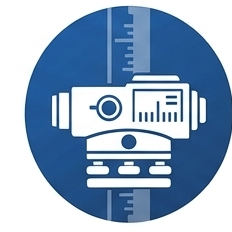
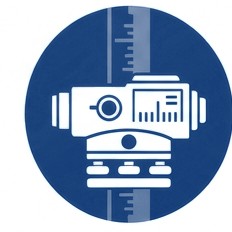
Izgled: teget/tamnoplava paleta umjesto svijetlo plave; prebojene ikone i logotipi

diff --git a/index.html b/index.html
@@ -10,10 +10,10 @@
 <link rel="shortcut icon" href="ikone/favicon.ico" />
 <link rel="apple-touch-icon" href="ikone/apple-touch-icon.png" />
 <link rel="manifest" href="manifest.json" />
-<meta name="theme-color" content="#1e5aa8" />
+<meta name="theme-color" content="#17407a" />
 <style>
   :root{
-    --plava:#1e5aa8; --plava-tamna:#17407a; --plava-svijetla:#2f6fc4;
+    --plava:#17407a; --plava-tamna:#0f2a52; --plava-svijetla:#1b4d92;
     --zelena:#1f9d55; --siva:#64748b; --svijetla:#f1f5f9;
     --obrub:#d7dee8; --tekst:#1e293b;
   }
@@ -104,7 +104,7 @@ M270 470 L250 600 M270 470 L430 560 M250 600 L420 650 M430 560 L420 650 M430 560
     box-shadow:0 4px 16px rgba(30,64,122,.08);
     transition:transform .16s,box-shadow .16s,border-color .16s;
   }
-  .kartica-mreze:hover{transform:translateY(-5px);box-shadow:0 14px 30px rgba(30,90,168,.20);border-color:var(--plava)}
+  .kartica-mreze:hover{transform:translateY(-5px);box-shadow:0 14px 30px rgba(23,64,122,.20);border-color:var(--plava)}
   .kartica-mreze .ikona{
     width:132px;height:132px;margin-bottom:16px;
     display:flex;align-items:center;justify-content:center;
@@ -112,8 +112,8 @@ M270 470 L250 600 M270 470 L430 560 M250 600 L420 650 M430 560 L420 650 M430 560
   .kartica-mreze .ikona img{
     width:124px;height:124px;border-radius:50%;object-fit:cover;
     transform:scale(1.09);
-    background:#1e5aa8;
-    box-shadow:0 8px 20px rgba(30,90,168,.35);
+    background:#17407a;
+    box-shadow:0 8px 20px rgba(23,64,122,.35);
   }
   .kartica-mreze h3{margin:0 0 10px;font-size:21px;color:var(--plava-tamna);font-weight:700}
   .kartica-mreze p{margin:0 0 20px;color:var(--siva);font-size:14px;min-height:44px}
@@ -121,7 +121,7 @@ M270 470 L250 600 M270 470 L430 560 M250 600 L420 650 M430 560 L420 650 M430 560
     display:inline-flex;align-items:center;gap:8px;
     background:linear-gradient(135deg,var(--plava-svijetla),var(--plava-tamna));
     color:#fff;padding:11px 26px;border-radius:9px;font-weight:600;font-size:15px;
-    box-shadow:0 3px 8px rgba(30,90,168,.3);transition:filter .15s;
+    box-shadow:0 3px 8px rgba(23,64,122,.3);transition:filter .15s;
   }
   .kartica-mreze:hover .otvori{filter:brightness(1.08)}
   .otvori svg{transition:transform .15s}
@@ -143,7 +143,7 @@ M270 470 L250 600 M270 470 L430 560 M250 600 L420 650 M430 560 L420 650 M430 560
     <!-- LOGO: trijangulaciona mreža (bijeli krug, blago plave linije — kao podloga) -->
     <svg width="52" height="52" viewBox="0 0 100 100">
       <circle cx="50" cy="50" r="49" fill="#ffffff"/>
-      <g fill="none" stroke="#1e5aa8" stroke-linecap="round" stroke-linejoin="round">
+      <g fill="none" stroke="#17407a" stroke-linecap="round" stroke-linejoin="round">
         <g stroke-opacity="0.35" stroke-width="1">
           <path d="M22 30 L50 44 M78 28 L50 44 M50 44 L34 68 M50 44 L70 66 M22 30 L34 68 M78 28 L70 66 M34 68 L70 66 M22 30 L18 58 M18 58 L34 68 M78 28 L82 56 M82 56 L70 66 M40 18 L50 44 M64 17 L50 44"/>
         </g>
@@ -151,7 +151,7 @@ M270 470 L250 600 M270 470 L430 560 M250 600 L420 650 M430 560 L420 650 M430 560
           <path d="M22 30 L40 18 L64 17 L78 28 L82 56 L70 66 L34 68 L18 58 Z"/>
         </g>
       </g>
-      <g fill="#1e5aa8">
+      <g fill="#17407a">
         <circle cx="40" cy="18" r="3"/><circle cx="64" cy="17" r="3"/>
         <circle cx="22" cy="30" r="3"/><circle cx="78" cy="28" r="3"/><circle cx="82" cy="56" r="3"/>
         <circle cx="70" cy="66" r="3"/><circle cx="34" cy="68" r="3"/><circle cx="18" cy="58" r="3"/>

diff --git a/nivelman-app/stil.css b/nivelman-app/stil.css
@@ -1,6 +1,6 @@
 :root{
-  --plava:#1e5aa8;
-  --plava-tamna:#17407a;
+  --plava:#17407a;
+  --plava-tamna:#0f2a52;
   --zelena:#1f9d55;
   --crvena:#d64545;
   --siva:#64748b;
@@ -46,12 +46,12 @@ h2:first-child{margin-top:0}
 
 /* callout box — tamnoplavi, čitljiv tekst na blagoj prozirnoj sivo-plavoj pozadini */
 .info{
-  background:rgba(30,90,168,.07);border-left:4px solid var(--plava);
+  background:rgba(23,64,122,.07);border-left:4px solid var(--plava);
   padding:14px 18px;border-radius:8px;margin-bottom:10px;font-size:14px;
   color:var(--plava-tamna);line-height:1.6;
 }
 .info b,.info strong{color:var(--plava-tamna);font-weight:700}
-.info code,code{background:#dde7f3;color:#17407a;padding:1px 6px;border-radius:4px;font-size:13px;font-weight:600}
+.info code,code{background:#dde7f3;color:#0f2a52;padding:1px 6px;border-radius:4px;font-size:13px;font-weight:600}
 
 .mreza2{display:grid;grid-template-columns:1fr 1fr;gap:16px}
 @media(max-width:720px){.mreza2{grid-template-columns:1fr}}
@@ -64,7 +64,7 @@ input{
   width:100%;padding:8px 10px;border:1px solid var(--obrub);border-radius:6px;
   font-size:14px;font-family:inherit;
 }
-input:focus{outline:none;border-color:var(--plava);box-shadow:0 0 0 2px rgba(30,90,168,.15)}
+input:focus{outline:none;border-color:var(--plava);box-shadow:0 0 0 2px rgba(23,64,122,.15)}
 
 .alatna{display:flex;align-items:center;gap:12px;flex-wrap:wrap;margin:14px 0}
 .alatna input{width:80px}
@@ -107,7 +107,7 @@ input:focus{outline:none;border-color:var(--plava);box-shadow:0 0 0 2px rgba(30,
   border:1px solid var(--obrub);border-radius:8px;background:#fff;color:var(--tekst);cursor:pointer;
 }
 .redukcija-blok select:hover{border-color:var(--plava)}
-.redukcija-blok select:focus,.redukcija-blok input:focus{outline:none;border-color:var(--plava);box-shadow:0 0 0 3px rgba(30,90,168,.15)}
+.redukcija-blok select:focus,.redukcija-blok input:focus{outline:none;border-color:var(--plava);box-shadow:0 0 0 3px rgba(23,64,122,.15)}
 .redukcija-blok input{font-size:14px;padding:8px 10px;width:130px;border:1px solid var(--obrub);border-radius:8px}
 .redukcija-blok .napomena{margin-top:10px}
 .redukcija-opis{margin:12px 0 0;padding-left:18px;font-size:13px;color:var(--tekst);line-height:1.6}

diff --git a/poligon-app/stil.css b/poligon-app/stil.css
@@ -1,6 +1,6 @@
 :root{
-  --plava:#1e5aa8;
-  --plava-tamna:#17407a;
+  --plava:#17407a;
+  --plava-tamna:#0f2a52;
   --zelena:#1f9d55;
   --crvena:#d64545;
   --siva:#64748b;
@@ -46,12 +46,12 @@ h2:first-child{margin-top:0}
 
 /* callout box — tamnoplavi, čitljiv tekst na blagoj prozirnoj sivo-plavoj pozadini */
 .info{
-  background:rgba(30,90,168,.07);border-left:4px solid var(--plava);
+  background:rgba(23,64,122,.07);border-left:4px solid var(--plava);
   padding:14px 18px;border-radius:8px;margin-bottom:10px;font-size:14px;
   color:var(--plava-tamna);line-height:1.6;
 }
 .info b,.info strong{color:var(--plava-tamna);font-weight:700}
-.info code,code{background:#dde7f3;color:#17407a;padding:1px 6px;border-radius:4px;font-size:13px;font-weight:600}
+.info code,code{background:#dde7f3;color:#0f2a52;padding:1px 6px;border-radius:4px;font-size:13px;font-weight:600}
 
 .mreza2{display:grid;grid-template-columns:1fr 1fr;gap:16px}
 @media(max-width:720px){.mreza2{grid-template-columns:1fr}}
@@ -64,7 +64,7 @@ input{
   width:100%;padding:8px 10px;border:1px solid var(--obrub);border-radius:6px;
   font-size:14px;font-family:inherit;
 }
-input:focus{outline:none;border-color:var(--plava);box-shadow:0 0 0 2px rgba(30,90,168,.15)}
+input:focus{outline:none;border-color:var(--plava);box-shadow:0 0 0 2px rgba(23,64,122,.15)}
 
 .alatna{display:flex;align-items:center;gap:12px;flex-wrap:wrap;margin:14px 0}
 .alatna input{width:80px}
@@ -114,7 +114,7 @@ input:focus{outline:none;border-color:var(--plava);box-shadow:0 0 0 2px rgba(30,
   border:1px solid var(--obrub);border-radius:8px;background:#fff;color:var(--tekst);cursor:pointer;
 }
 .redukcija-blok select:hover{border-color:var(--plava)}
-.redukcija-blok select:focus,.redukcija-blok input:focus{outline:none;border-color:var(--plava);box-shadow:0 0 0 3px rgba(30,90,168,.15)}
+.redukcija-blok select:focus,.redukcija-blok input:focus{outline:none;border-color:var(--plava);box-shadow:0 0 0 3px rgba(23,64,122,.15)}
 .redukcija-blok input{font-size:14px;padding:8px 10px;width:130px;border:1px solid var(--obrub);border-radius:8px}
 .redukcija-blok .napomena{margin-top:10px}
 .redukcija-opis{margin:12px 0 0;padding-left:18px;font-size:13px;color:var(--tekst);line-height:1.6}

diff --git a/nivelman-app/index.html b/nivelman-app/index.html
@@ -9,7 +9,7 @@
 <link rel="icon" type="image/svg+xml" href="ikona-totalka.svg" />
 <link rel="shortcut icon" href="favicon.ico" />
 <link rel="manifest" href="manifest.json" />
-<meta name="theme-color" content="#1e5aa8" />
+<meta name="theme-color" content="#17407a" />
 <link rel="stylesheet" href="stil.css" />
 </head>
 <body>

diff --git a/poligon-app/index.html b/poligon-app/index.html
@@ -10,7 +10,7 @@
 <link rel="shortcut icon" href="favicon.ico" />
 <link rel="apple-touch-icon" href="ikona-512.png" />
 <link rel="manifest" href="manifest.json" />
-<meta name="theme-color" content="#1e5aa8" />
+<meta name="theme-color" content="#17407a" />
 <link rel="stylesheet" href="stil.css" />
 </head>
 <body>

diff --git a/poligon-app/app.js b/poligon-app/app.js
@@ -591,7 +591,7 @@ function nacrtaj(r) {
   ctx.setLineDash([]);
 
   // linije vlaka
-  ctx.strokeStyle = "#1e5aa8";
+  ctx.strokeStyle = "#17407a";
   ctx.lineWidth = 2;
   ctx.beginPath();
   tocke.forEach((t, i) => {
